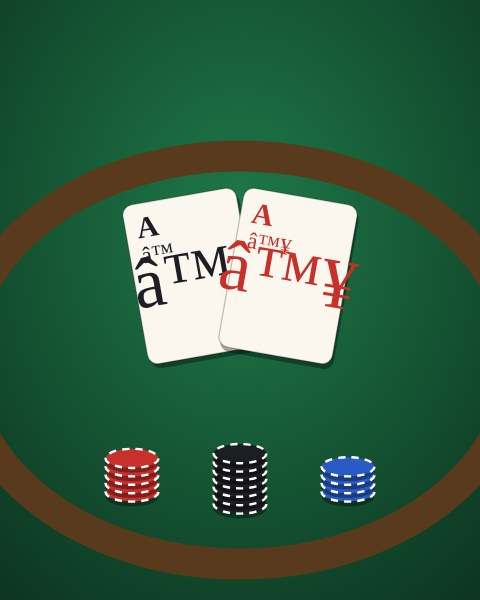
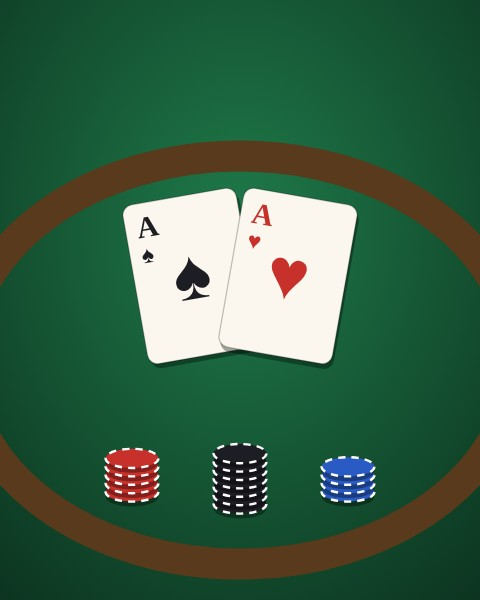
Fix cover text, dark page background, input heights, pills, hero platforms
Claude-Session: https://claude.ai/code/session_015A1eytXXsEqnFo2yRQm5ya

Changed region(s): [[0.2812, 0.39, 0.75, 0.54]]

diff --git a/src/IroniteLauncher/Themes/Ironite.xaml b/src/IroniteLauncher/Themes/Ironite.xaml
@@ -187,8 +187,17 @@
     <Setter Property="SelectionBrush" Value="{StaticResource Ember}" />
     <Setter Property="BorderBrush" Value="{StaticResource Line}" />
     <Setter Property="FontSize" Value="13.5" />
-    <Setter Property="Padding" Value="9,8" />
+    <Setter Property="Padding" Value="9,0" />
+    <Setter Property="Height" Value="38" />
+    <Setter Property="VerticalContentAlignment" Value="Center" />
     <Setter Property="FocusVisualStyle" Value="{x:Null}" />
+    <Style.Triggers>
+      <Trigger Property="AcceptsReturn" Value="True">
+        <Setter Property="Height" Value="Auto" />
+        <Setter Property="Padding" Value="9,8" />
+        <Setter Property="VerticalContentAlignment" Value="Top" />
+      </Trigger>
+    </Style.Triggers>
     <Setter Property="Template">
       <Setter.Value>
         <ControlTemplate TargetType="TextBox">
@@ -208,12 +217,14 @@
     <Setter Property="CaretBrush" Value="{StaticResource Text}" />
     <Setter Property="BorderBrush" Value="{StaticResource Line}" />
     <Setter Property="FontSize" Value="13.5" />
-    <Setter Property="Padding" Value="9,8" />
+    <Setter Property="Padding" Value="9,0" />
+    <Setter Property="Height" Value="38" />
+    <Setter Property="VerticalContentAlignment" Value="Center" />
     <Setter Property="Template">
       <Setter.Value>
         <ControlTemplate TargetType="PasswordBox">
           <Border x:Name="B" CornerRadius="8" Background="{TemplateBinding Background}" BorderBrush="{TemplateBinding BorderBrush}" BorderThickness="1">
-            <ScrollViewer x:Name="PART_ContentHost" Margin="{TemplateBinding Padding}" />
+            <ScrollViewer x:Name="PART_ContentHost" Margin="{TemplateBinding Padding}" VerticalAlignment="{TemplateBinding VerticalContentAlignment}" />
           </Border>
           <ControlTemplate.Triggers>
             <Trigger Property="IsKeyboardFocused" Value="True"><Setter TargetName="B" Property="BorderBrush" Value="{StaticResource Ember2}" /></Trigger>

diff --git a/src/IroniteLauncher/MainWindow.xaml b/src/IroniteLauncher/MainWindow.xaml
@@ -5,7 +5,7 @@
         WindowStartupLocation="CenterScreen" Background="{StaticResource Bg}" Foreground="{StaticResource Text}"
         FontFamily="{StaticResource Body}" FontSize="14" Icon="pack://application:,,,/Assets/icon.ico"
         UseLayoutRounding="True" TextOptions.TextFormattingMode="Ideal">
-  <Grid x:Name="Root">
+  <Grid x:Name="Root" Background="{StaticResource Bg}">
     <Grid.ColumnDefinitions>
       <ColumnDefinition Width="232" />
       <ColumnDefinition Width="*" />

diff --git a/src/IroniteLauncher/MainWindow.Library.cs b/src/IroniteLauncher/MainWindow.Library.cs
@@ -30,7 +30,7 @@ public partial class MainWindow
         new("solarsiege", "FEATURED · ARCADE", "SOLAR SIEGE", "DEFEND THE SOLAR SYSTEM"),
     };
 
-    private readonly TextBox _search = new() { MinWidth = 220, Padding = new Thickness(38, 10, 34, 10), FontSize = 14 };
+    private readonly TextBox _search = new() { MinWidth = 220, Height = 40, Padding = new Thickness(38, 0, 34, 0), FontSize = 14 };
     private readonly ComboBox _sort = new() { Width = 170, Margin = new Thickness(12, 0, 0, 0), Visibility = Visibility.Collapsed, ToolTip = "Sort" };
     private readonly CheckBox _showHid = new() { Margin = new Thickness(12, 0, 0, 0), Visibility = Visibility.Collapsed };
     private readonly Grid _hero = new() { MinHeight = 320, Margin = new Thickness(0, 0, 0, 30) };
@@ -324,7 +324,12 @@ public partial class MainWindow
                 meta.Children.Add(MetaText(g.Demo ? "Free demo" : "Free"));
                 if (s.Size > 0) meta.Children.Add(MetaText(Size(s.Size)));
             }
-            meta.Children.Add(Plats(g, true));
+            foreach (var chip in Plats(g, true).Children.Cast<UIElement>().ToList())
+            {
+                ((Panel)((FrameworkElement)chip).Parent).Children.Remove(chip);
+                ((FrameworkElement)chip).VerticalAlignment = VerticalAlignment.Top;
+                meta.Children.Add(chip);
+            }
             info.Children.Add(meta);
             slide.Children.Add(info);
             _slides.Add(slide);

diff --git a/src/IroniteLauncher/Services/Tour.cs b/src/IroniteLauncher/Services/Tour.cs
@@ -98,7 +98,7 @@ public static class Tour
             if (k.Installed)
             {
                 core.Launch("klondike");
-                await Task.Delay(6000);
+                await Task.Delay(10000);
                 w.Refresh(force: true);
                 await Settle();
                 Shot(w, dir, "06-playing");
